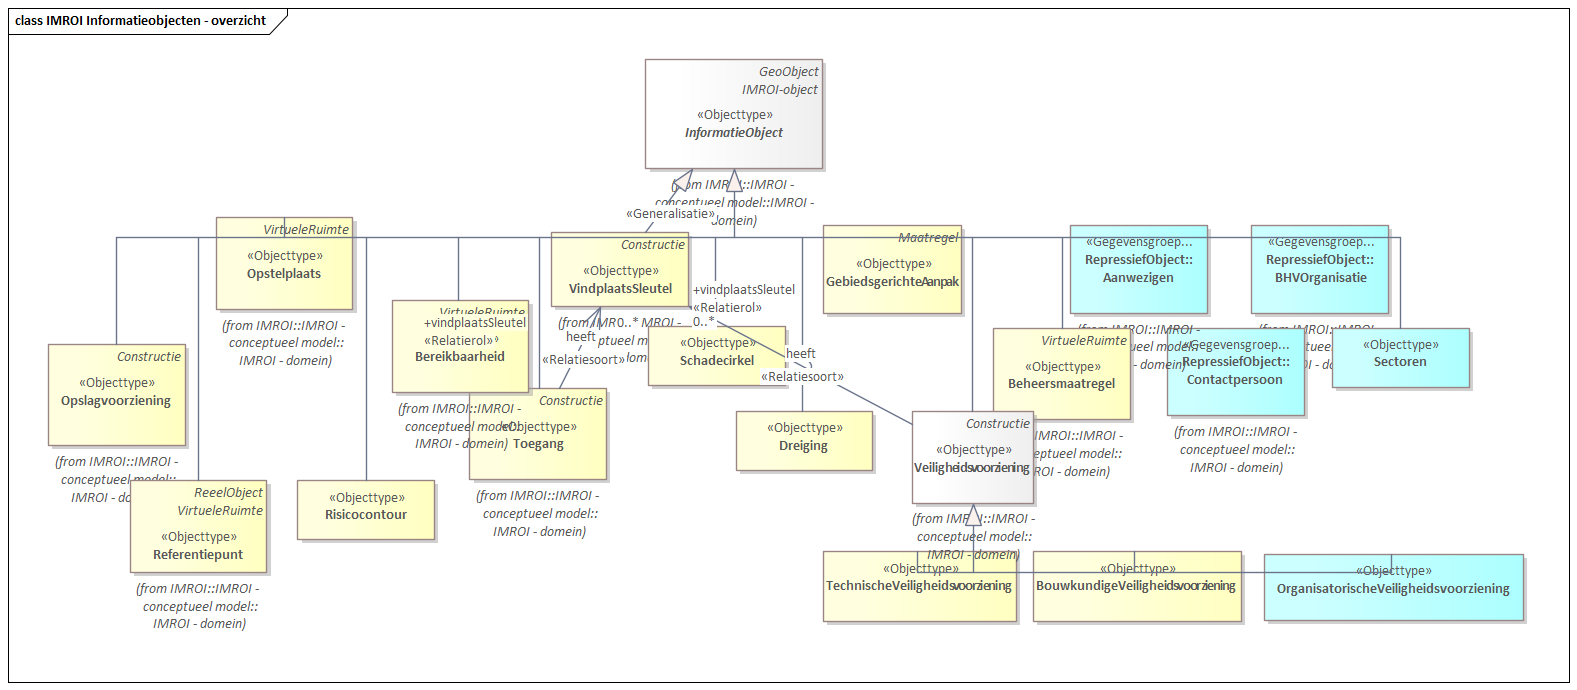
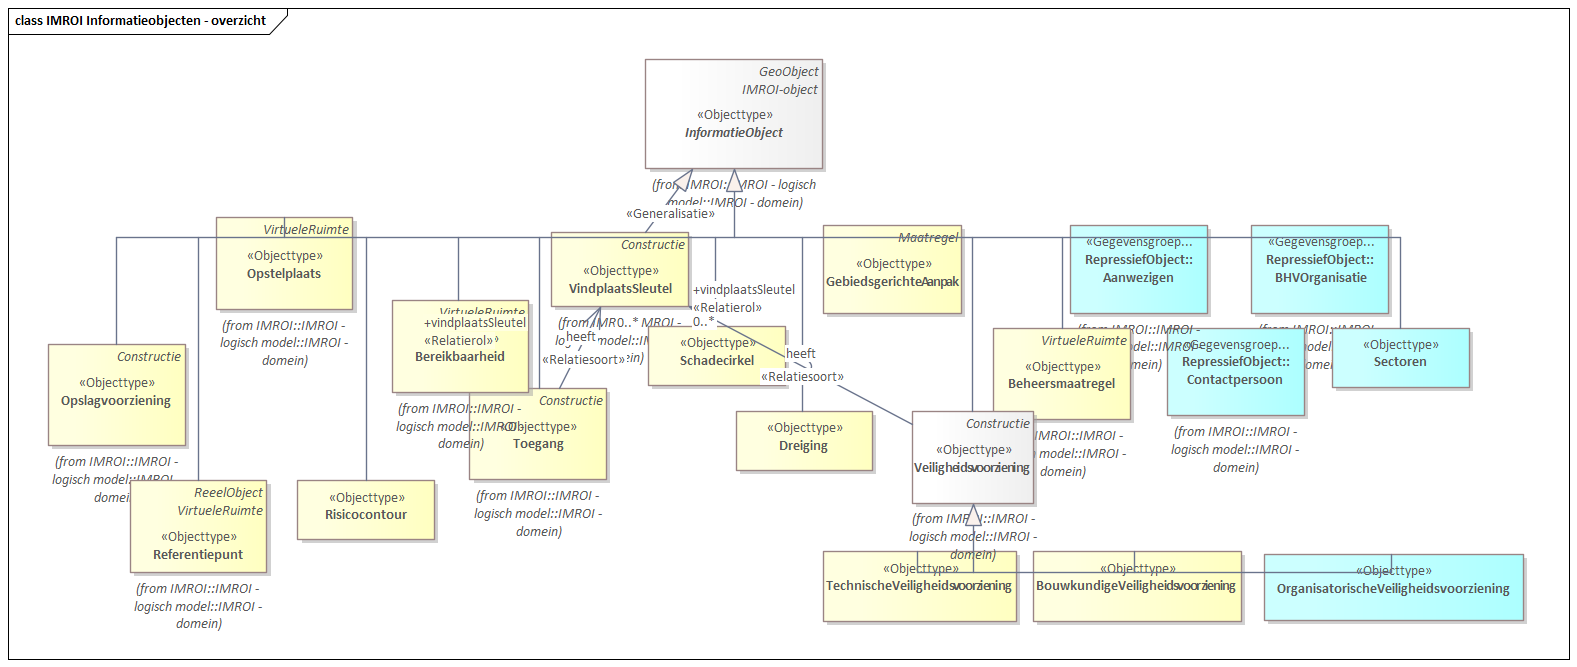
MIMCM-IMROI-logischmodel-1.0-0-20231106-20250122-074635

diff --git a/data/IMROI-cat.respec.html b/data/IMROI-cat.respec.html
@@ -1,4 +1,4 @@
-<!DOCTYPE HTML><section id="cat" class="normative"><h2>Gegevensdefinitie</h2><!--MIMCM-IMROI-conceptueelmodel-1.0-0-20231106-20250120-083417 imvertor 4.3.0--><section id="global_package_IMROIdomein"><h3>Domein   IMROI - domein</h3><section id="EAID_F0702C87_77BC_4f87_90C6_7A2C434CAA31"><h4>   IMROI - overzicht</h4><div class="imageinfo overview"><figure class="uml-diagram"><img id="EAID_F0702C87_77BC_4f87_90C6_7A2C434CAA31" src="data/Images/EAID_F0702C87_77BC_4f87_90C6_7A2C434CAA31.png" usemap="#imagemap-EAID_F0702C87_77BC_4f87_90C6_7A2C434CAA31" alt="Diagram: IMROI - overzicht"><figcaption> ‒ Diagram: IMROI</figcaption></figure><map name="imagemap-EAID_F0702C87_77BC_4f87_90C6_7A2C434CAA31"><area shape="rect" alt="Bouwlaag" coords="48,409,169,457" href="#global_class_IMROIdomein_Bouwlaag"><area shape="rect" alt="IMROI-object" coords="206,67,329,135" href="#global_class_IMROIdomein_IMROIobject"><area shape="rect" alt="IdentificeerbaarObject" coords="397,63,534,141" href="#global_class_NEN3610_IdentificeerbaarObject"><area shape="rect" alt="Gebouw" coords="142,239,269,296" href="#global_class_IMROIdomein_Gebouw"><area shape="rect" alt="InformatieObject" coords="375,409,554,457" href="#global_class_IMROIdomein_InformatieObject"><area shape="rect" alt="Terrein" coords="700,239,804,296" href="#global_class_IMROIdomein_Terrein"><area shape="rect" alt="RepressiefObject" coords="378,239,551,296" href="#global_class_IMROIdomein_RepressiefObject"><area shape="rect" alt="Registratie" coords="681,66,804,139" href="#global_class_NEN3610_Registratie"></map><p>
+<!DOCTYPE HTML><section id="cat" class="normative"><h2>Gegevensdefinitie</h2><!--MIMCM-IMROI-logischmodel-1.0-0-20231106-20250122-074635 imvertor 4.3.0--><section id="global_package_IMROIdomein"><h3>Domein   IMROI - domein</h3><section id="EAID_F0702C87_77BC_4f87_90C6_7A2C434CAA31"><h4>   IMROI - overzicht</h4><div class="imageinfo overview"><figure class="uml-diagram"><img id="EAID_F0702C87_77BC_4f87_90C6_7A2C434CAA31" src="data/Images/EAID_F0702C87_77BC_4f87_90C6_7A2C434CAA31.png" usemap="#imagemap-EAID_F0702C87_77BC_4f87_90C6_7A2C434CAA31" alt="Diagram: IMROI - overzicht"><figcaption> ‒ Diagram: IMROI</figcaption></figure><map name="imagemap-EAID_F0702C87_77BC_4f87_90C6_7A2C434CAA31"><area shape="rect" alt="Bouwlaag" coords="48,409,169,457" href="#global_class_IMROIdomein_Bouwlaag"><area shape="rect" alt="IMROI-object" coords="206,67,329,135" href="#global_class_IMROIdomein_IMROIobject"><area shape="rect" alt="IdentificeerbaarObject" coords="397,63,534,141" href="#global_class_NEN3610_IdentificeerbaarObject"><area shape="rect" alt="Gebouw" coords="142,239,269,296" href="#global_class_IMROIdomein_Gebouw"><area shape="rect" alt="InformatieObject" coords="375,409,554,457" href="#global_class_IMROIdomein_InformatieObject"><area shape="rect" alt="Terrein" coords="700,239,804,296" href="#global_class_IMROIdomein_Terrein"><area shape="rect" alt="RepressiefObject" coords="378,239,551,296" href="#global_class_IMROIdomein_RepressiefObject"><area shape="rect" alt="Registratie" coords="681,66,804,139" href="#global_class_NEN3610_Registratie"></map><p>
                         <p></p>
                      </p></div></section><section id="EAID_476DC045_B88A_4aaa_A580_233B35E2F082"><h4>   IMROI zonder attributen - overzicht</h4><div class="imageinfo overview"><figure class="uml-diagram"><img id="EAID_476DC045_B88A_4aaa_A580_233B35E2F082" src="data/Images/EAID_476DC045_B88A_4aaa_A580_233B35E2F082.png" usemap="#imagemap-EAID_476DC045_B88A_4aaa_A580_233B35E2F082" alt="Diagram: IMROI zonder attributen - overzicht"><figcaption> ‒ Diagram: IMROI zonder attributen</figcaption></figure><map name="imagemap-EAID_476DC045_B88A_4aaa_A580_233B35E2F082"><area shape="rect" alt="Impactzone" coords="700,519,802,565" href="#global_class_IMROIdomein_Impactzone"><area shape="rect" alt="Functioneel gebied" coords="1575,581,1799,628" href="#global_class_IMGeo_Functioneelgebied"><area shape="rect" alt="Scheiding" coords="1322,542,1546,588" href="#global_class_IMGeo_Scheiding"><area shape="rect" alt="Kunstwerkdeel" coords="1313,304,1537,351" href="#global_class_IMGeo_Kunstwerkdeel"><area shape="rect" alt="Tunneldeel" coords="1311,383,1535,430" href="#global_class_IMGeo_Tunneldeel"><area shape="rect" alt="Overbruggingsdeel" coords="1311,463,1535,509" href="#global_class_IMGeo_Overbruggingsdeel"><area shape="rect" alt="Ondersteunend waterdeel" coords="1575,502,1799,549" href="#global_class_IMGeo_Ondersteunendwaterdeel"><area shape="rect" alt="Waterdeel" coords="1575,423,1799,469" href="#global_class_IMGeo_Waterdeel"><area shape="rect" alt="Begroeid terreindeel" coords="1575,265,1799,311" href="#global_class_IMGeo_Begroeidterreindeel"><area shape="rect" alt="Onbegroeid terreindeel" coords="1586,344,1809,390" href="#global_class_IMGeo_Onbegroeidterreindeel"><area shape="rect" alt="Spoor" coords="1313,225,1537,272" href="#global_class_IMGeo_Spoor"><area shape="rect" alt="Ondersteunend wegdeel" coords="1575,186,1799,232" href="#global_class_IMGeo_Ondersteunendwegdeel"><area shape="rect" alt="Wegdeel" coords="1313,147,1537,194" href="#global_class_IMGeo_Wegdeel"><area shape="rect" alt="Overig bouwwerk" coords="50,237,274,284" href="#global_class_IMGeo_Overigbouwwerk"><area shape="rect" alt="Pand" coords="50,160,274,206" href="#global_class_IMBAG_Pand"><area shape="rect" alt="PandOfOverigBouwwerk" coords="233,63,377,109" href="#global_class_IMROIdomein_PandOfOverigBouwwerk"><area shape="rect" alt="IMGeo-object" coords="1168,70,1291,116" href="#global_class_IMROIdomein_IMGeoobject"><area shape="rect" alt="Bouwlaag" coords="465,172,588,218" href="#global_class_IMROIdomein_Bouwlaag"><area shape="rect" alt="Veiligheidsvoorziening" coords="232,418,366,464" href="#global_class_IMROIdomein_Veiligheidsvoorziening"><area shape="rect" alt="Gebouw" coords="463,64,590,111" href="#global_class_IMROIdomein_Gebouw"><area shape="rect" alt="InformatieObject" coords="633,278,811,325" href="#global_class_IMROIdomein_InformatieObject"><area shape="rect" alt="Beheersmaatregel" coords="778,416,883,463" href="#global_class_IMROIdomein_Beheersmaatregel"><area shape="rect" alt="Referentiepunt" coords="535,519,640,565" href="#global_class_IMROIdomein_Referentiepunt"><area shape="rect" alt="Ruimte" coords="362,278,499,325" href="#global_class_IMROIdomein_Ruimte"><area shape="rect" alt="Bereikbaarheid" coords="456,416,561,463" href="#global_class_IMROIdomein_Bereikbaarheid"><area shape="rect" alt="Opslagvoorziening" coords="48,419,153,465" href="#global_class_IMROIdomein_Opslagvoorziening"><area shape="rect" alt="VindplaatsSleutel" coords="363,519,468,565" href="#global_class_IMROIdomein_VindplaatsSleutel"><area shape="rect" alt="Toegang" coords="128,523,233,569" href="#global_class_IMROIdomein_Toegang"><area shape="rect" alt="Opstelplaats" coords="614,416,719,463" href="#global_class_IMROIdomein_Opstelplaats"><area shape="rect" alt="Terrein" coords="963,65,1068,112" href="#global_class_IMROIdomein_Terrein"><area shape="rect" alt="RepressiefObject" coords="700,64,839,111" href="#global_class_IMROIdomein_RepressiefObject"></map><p>
                         <p></p>
@@ -750,7 +750,7 @@ gevaar oplevert voor de veiligheid en gezondheid van mens, dier en milieu.</p>
                
                <h6>Overzicht constraints  </h6>
                   <table style="width: 100%;"><colgroup style="width: 30%;"></colgroup><colgroup style="width: 70%;"></colgroup><tbody><tr><th>Naam</th><th>Uitleg</th></tr><tr><th>
-                           <a class="link" href="#detail_d69736e12163">
+                           <a class="link" href="#detail_d69739e12191">
                               TypeVeiligheidsvoorziening
                            </a>
                         </th><td></td></tr></tbody></table>
@@ -2062,7 +2062,7 @@ gevaar opleveren voor de veiligheid en gezondheid van mens, dier en milieu.</p>
                               <a class="link" href="#global_class_IMROIdomein_VindplaatsSleutel">VindplaatsSleutel</a>
                            </td></tr><tr><th>Kardinaliteit</th><td>0 .. *</td></tr></tbody></table>
                   </div>
-                  <div class="deepheader" id="detail_d69736e12163"><h7>Constraint details  <a href="#global_class_IMROIdomein_Veiligheidsvoorziening">Veiligheidsvoorziening</a> TypeVeiligheidsvoorziening</h7>
+                  <div class="deepheader" id="detail_d69739e12191"><h7>Constraint details  <a href="#global_class_IMROIdomein_Veiligheidsvoorziening">Veiligheidsvoorziening</a> TypeVeiligheidsvoorziening</h7>
                      <table style="width: 100%;"><colgroup style="width: 30%;"></colgroup><colgroup style="width: 70%;"></colgroup><tbody><tr><th>OCL</th><td>context Veiligheidsvoorziening inv: if self.type = 'brandwerende scheiding' then self.geometrie.oclIsTypeOf(GM_Curve) else if self.type = 'hoofdafsluiter CV' then self.geometrie.oclIsTypeOf(GM_Point) else true endif</td></tr></tbody></table>
                   </div>
                </section>
@@ -3552,7 +3552,7 @@ De reguliere expressie voor de toegestane tekens is: ([a-z]|[A-Z]|[0-9]|_|-|\,|.
             
             
             
-         </section></section></section><section id="lis" class="normative"><h2>Inhoud van waardelijsten</h2><!--MIMCM-IMROI-conceptueelmodel-1.0-0-20231106-20250120-083417 imvertor 4.3.0--><section><h3>Codelijst inhoud   </h3><section id="detail_class_IMROIdomein_TypeDraagconstructie"><h4>Codelijst details  TypeDraagconstructie</h4>
+         </section></section></section><section id="lis" class="normative"><h2>Inhoud van waardelijsten</h2><!--MIMCM-IMROI-logischmodel-1.0-0-20231106-20250122-074635 imvertor 4.3.0--><section><h3>Codelijst inhoud   </h3><section id="detail_class_IMROIdomein_TypeDraagconstructie"><h4>Codelijst details  TypeDraagconstructie</h4>
             <table style="width: 100%;" class="list"><colgroup></colgroup><tbody><tr><td>
                      <p>Lijst met classificaties voor het type Draagconstructie.</p>
                   </td></tr></tbody></table>
